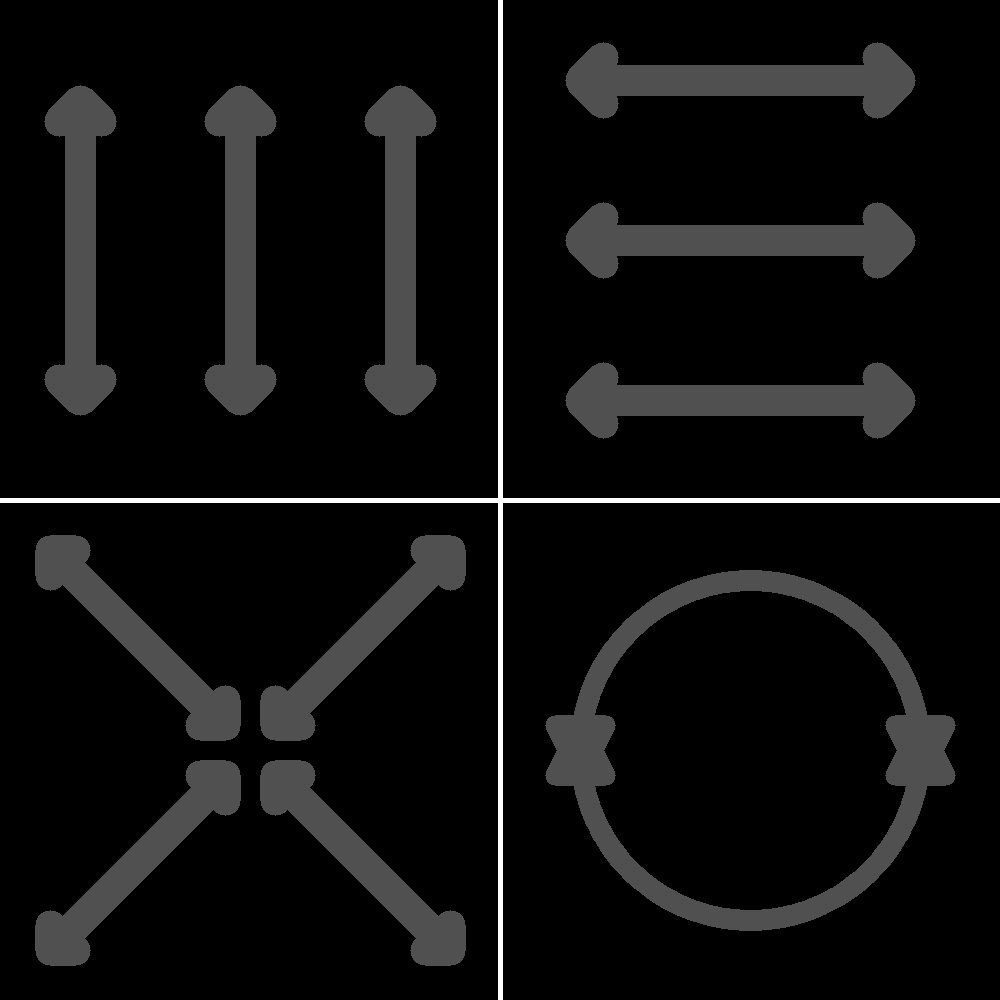
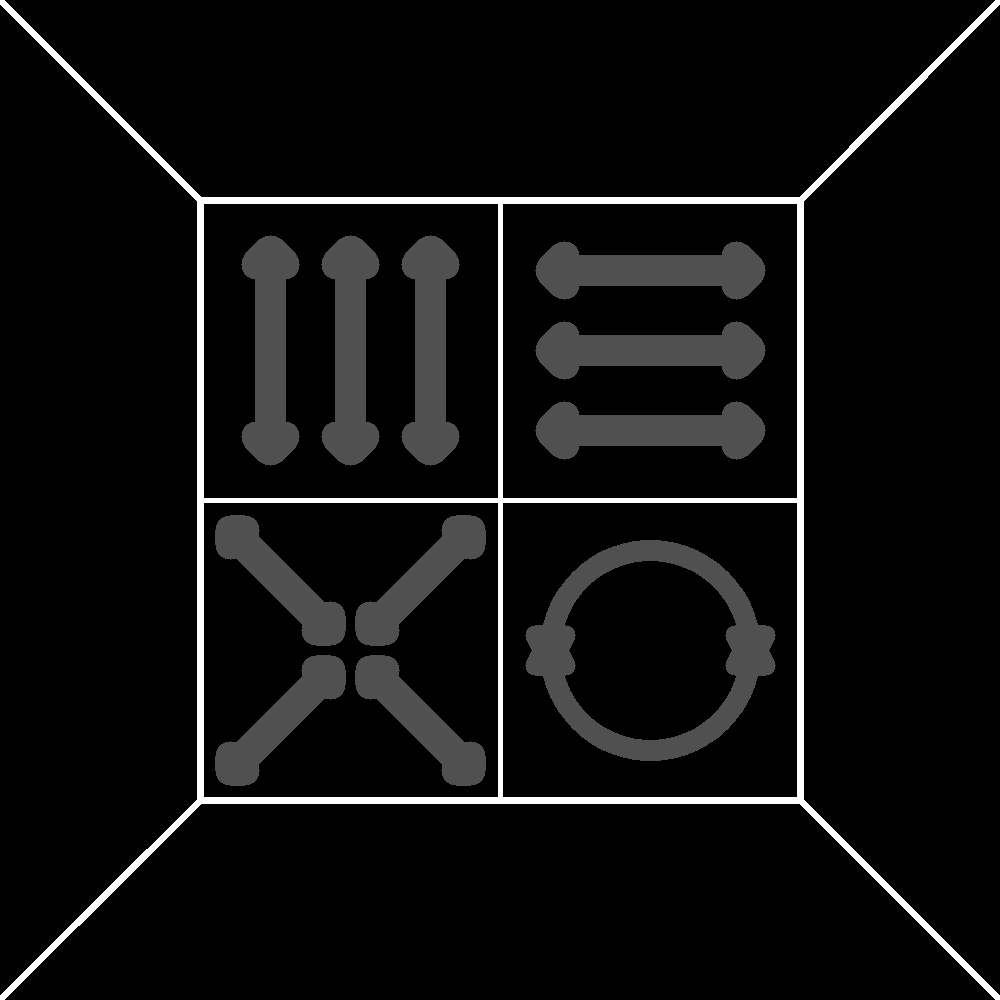
Integate the two GUIs into one.

diff --git a/eval/tools/generateGraphicalBase.py b/eval/tools/generateGraphicalBase.py
@@ -1,66 +1,53 @@
 import numpy as np
 import cv2
 
-front = np.array([[0, 0], [200, 200], [600, 200], [799, 0]])
-rear = np.array([[799, 799], [600, 600], [200, 600], [0, 799]])
-left = np.array([[0, 0], [200, 200], [200, 600], [0, 799]])
-right = np.array([[799, 0], [600, 200], [600, 600], [799, 799]])
-
-background = 255 * np.ones((800, 800, 3), dtype=np.uint8)
-drone = cv2.imread("../test/drone.jpg")
-roi = cv2.resize(drone, (480, 320))
-background[240:560, 160:640] = roi
-cv2.rectangle(background, (180, 200), (605, 600), (0, 0, 0), thickness=5)
-cv2.line(background, (0, 0), (180, 200), (0, 0, 0), thickness=5)
-cv2.line(background, (799, 0), (605, 200), (0, 0, 0), thickness=5)
-cv2.line(background, (0, 799), (180, 600), (0, 0, 0), thickness=5)
-cv2.line(background, (799, 799), (605, 600), (0, 0, 0), thickness=5)
-
-cv2.imshow("Obstacle", background)
-cv2.imwrite("ObstacleBackground.jpg", background)
-
 canvas = np.zeros((1000, 1000, 3), dtype=np.uint8)
-cv2.line(canvas, (500, 0), (500, 999), (255, 255, 255), thickness=3)
-cv2.line(canvas, (0, 500), (999, 500), (255, 255, 255), thickness=3)
+cv2.line(canvas, (500, 200), (500, 800), (255, 255, 255), thickness=3)
+cv2.line(canvas, (200, 500), (800, 500), (255, 255, 255), thickness=3)
+cv2.rectangle(canvas, (200, 200), (800, 800), (255, 255, 255), thickness=5)
+cv2.line(canvas, (0, 0), (200, 200), (255, 255, 255), thickness=5)
+cv2.line(canvas, (999, 0), (800, 200), (255, 255, 255), thickness=5)
+cv2.line(canvas, (0, 999), (200, 800), (255, 255, 255), thickness=5)
+cv2.line(canvas, (999, 999), (800, 800), (255, 255, 255), thickness=5)
 
 inactiveColor = (80, 80, 80)
 activeColor = (255, 255, 255)
 #UP
-cv2.arrowedLine(canvas, (80, 400), (80, 100), inactiveColor, thickness=30)
-cv2.arrowedLine(canvas, (240, 400), (240, 100), inactiveColor, thickness=30)
-cv2.arrowedLine(canvas, (400, 400), (400, 100), inactiveColor, thickness=30)
+cv2.arrowedLine(canvas, (270, 450), (270, 250), inactiveColor, thickness=30)
+cv2.arrowedLine(canvas, (350, 450), (350, 250), inactiveColor, thickness=30)
+cv2.arrowedLine(canvas, (430, 450), (430, 250), inactiveColor, thickness=30)
 #DOWN
-cv2.arrowedLine(canvas, (80, 100), (80, 400), inactiveColor, thickness=30)
-cv2.arrowedLine(canvas, (240, 100), (240, 400), inactiveColor, thickness=30)
-cv2.arrowedLine(canvas, (400, 100), (400, 400), inactiveColor, thickness=30)
+cv2.arrowedLine(canvas, (270, 250), (270, 450), inactiveColor, thickness=30)
+cv2.arrowedLine(canvas, (350, 250), (350, 450), inactiveColor, thickness=30)
+cv2.arrowedLine(canvas, (430, 250), (430, 450), inactiveColor, thickness=30)
 #LEFT
-cv2.arrowedLine(canvas, (580, 80), (900, 80), inactiveColor, thickness=30)
-cv2.arrowedLine(canvas, (580, 240), (900, 240), inactiveColor, thickness=30)
-cv2.arrowedLine(canvas, (580, 400), (900, 400), inactiveColor, thickness=30)
+cv2.arrowedLine(canvas, (550, 270), (750, 270), inactiveColor, thickness=30)
+cv2.arrowedLine(canvas, (550, 350), (750, 350), inactiveColor, thickness=30)
+cv2.arrowedLine(canvas, (550, 430), (750, 430), inactiveColor, thickness=30)
 #RIGHT
-cv2.arrowedLine(canvas, (900, 80), (580, 80), inactiveColor, thickness=30)
-cv2.arrowedLine(canvas, (900, 240), (580, 240), inactiveColor, thickness=30)
-cv2.arrowedLine(canvas, (900, 400), (580, 400), inactiveColor, thickness=30)
+cv2.arrowedLine(canvas, (750, 270), (550, 270), inactiveColor, thickness=30)
+cv2.arrowedLine(canvas, (750, 350), (550, 350), inactiveColor, thickness=30)
+cv2.arrowedLine(canvas, (750, 430), (550, 430), inactiveColor, thickness=30)
 #ZOOMIN
-cv2.arrowedLine(canvas, (225, 725), (50, 550), inactiveColor, thickness=30)
-cv2.arrowedLine(canvas, (225, 775), (50, 950), inactiveColor, thickness=30)
-cv2.arrowedLine(canvas, (275, 725), (450, 550), inactiveColor, thickness=30)
-cv2.arrowedLine(canvas, (275, 775), (450, 950), inactiveColor, thickness=30)
+cv2.arrowedLine(canvas, (330, 630), (230, 530), inactiveColor, thickness=30)
+cv2.arrowedLine(canvas, (330, 670), (230, 770), inactiveColor, thickness=30)
+cv2.arrowedLine(canvas, (370, 630), (470, 530), inactiveColor, thickness=30)
+cv2.arrowedLine(canvas, (370, 670), (470, 770), inactiveColor, thickness=30)
 #ZOOMOUT
-cv2.arrowedLine(canvas, (50, 550), (225, 725), inactiveColor, thickness=30)
-cv2.arrowedLine(canvas, (50, 950), (225, 775), inactiveColor, thickness=30)
-cv2.arrowedLine(canvas, (450, 550), (275, 725), inactiveColor, thickness=30)
-cv2.arrowedLine(canvas, (450, 950), (275, 775), inactiveColor, thickness=30)
+cv2.arrowedLine(canvas, (230, 530), (330, 630), inactiveColor, thickness=30)
+cv2.arrowedLine(canvas, (230, 770), (330, 670), inactiveColor, thickness=30)
+cv2.arrowedLine(canvas, (470, 530), (370, 630), inactiveColor, thickness=30)
+cv2.arrowedLine(canvas, (470, 770), (370, 670), inactiveColor, thickness=30)
 #CW
-cv2.drawMarker(canvas, (580, 750), inactiveColor, cv2.MARKER_TRIANGLE_UP, markerSize=50, thickness=20)
-cv2.drawMarker(canvas, (920, 750), inactiveColor, cv2.MARKER_TRIANGLE_DOWN, markerSize=50, thickness=20)
+cv2.drawMarker(canvas, (550, 650), inactiveColor, cv2.MARKER_TRIANGLE_UP, markerSize=30, thickness=20)
+cv2.drawMarker(canvas, (750, 650), inactiveColor, cv2.MARKER_TRIANGLE_DOWN, markerSize=30, thickness=20)
 #CCW
-cv2.drawMarker(canvas, (580, 750), inactiveColor, cv2.MARKER_TRIANGLE_DOWN, markerSize=50, thickness=20)
-cv2.drawMarker(canvas, (920, 750), inactiveColor, cv2.MARKER_TRIANGLE_UP, markerSize=50, thickness=20)
-cv2.circle(canvas, (750, 750), 170, inactiveColor, thickness=20)
+cv2.drawMarker(canvas, (550, 650), inactiveColor, cv2.MARKER_TRIANGLE_DOWN, markerSize=30, thickness=20)
+cv2.drawMarker(canvas, (750, 650), inactiveColor, cv2.MARKER_TRIANGLE_UP, markerSize=30, thickness=20)
+cv2.circle(canvas, (650, 650), 100, inactiveColor, thickness=20)
 
 cv2.imshow("Motion", canvas)
-cv2.waitKey(0)
+cv2.waitKey(2000)
 cv2.imwrite("MotionBackground.jpg", canvas)
 
 cv2.destroyAllWindows()

diff --git a/eval/Graphics.py b/eval/Graphics.py
@@ -5,24 +5,23 @@ class Graphics():
 
 
     def __init__(self):
-        upArrow = np.array([ ( (80, 400), (80, 100) ), ( (240, 400), (240, 100) ), ( (400, 400), (400, 100) ) ])
-        downArrow = np.array([ ( (80, 100), (80, 400) ), ( (240, 100), (240, 400) ), ( (400, 100), (400, 400) ) ])
-        leftArrow = np.array([ ( (580, 80), (900, 80) ), ( (580, 240), (900, 240) ), ( (580, 400), (900, 400) ) ])
-        rightArrow = np.array([ ( (900, 80), (580, 80) ), ( (900, 240), (580, 240) ), ( (900, 400), (580, 400) ) ])
-        zoominArrow = np.array([ ( (225, 725), (50, 550) ), ((225, 775), (50, 950)  ), ( (275, 725), (450, 550) ), ((275, 775), (450, 950)  ) ])
-        zoomoutArrow = np.array([ ((50, 550), (225, 725)  ), ( (50, 950), (225, 775) ), ( (450, 550), (275, 725) ), ((450, 950), (275, 775)  ) ])
+        self.counter = 0
+        upArrow = np.array([ ( (270, 450), (270, 250) ), ( (350, 450), (350, 250) ), ( (430, 450), (430, 250) ) ])
+        downArrow = np.array([ ( (270, 250), (270, 450) ), ( (350, 250), (350, 450) ), ( (430, 250), (430, 450) ) ])
+        leftArrow = np.array([ ( (550, 270), (750, 270) ), ( (550, 350), (750, 350) ), ( (550, 430), (750, 430) ) ])
+        rightArrow = np.array([ ( (750, 270), (550, 270) ), ( (750, 350), (550, 350) ), ( (750, 430), (550, 430) ) ])
+        zoominArrow = np.array([ ( (330, 630), (230, 530) ), ((330, 670), (230, 770)  ), ( (370, 630), (470, 530) ), ((370, 670), (470, 770)  ) ])
+        zoomoutArrow = np.array([ ((230, 530), (330, 630)  ), ( (230, 770), (330, 670) ), ( (470, 530), (370, 630) ), ((470, 770), (370, 670)  ) ])
         cwArrow = np.array( [  ] )
         ccwArrow = np.array( [  ] )
-        self.arrows = [cwArrow, ccwArrow, zoominArrow, zoomoutArrow, downArrow, upArrow, rightArrow, leftArrow]
-        frontSide = np.array([[0, 0], [200, 200], [600, 200], [799, 0]])
-        rearSide = np.array([[799, 799], [600, 600], [200, 600], [0, 799]])
-        leftSide = np.array([[0, 0], [200, 200], [200, 600], [0, 799]])
-        rightSide = np.array([[799, 0], [600, 200], [600, 600], [799, 799]])
-        self.sides = [frontSide, rearSide, leftSide, rightSide]
+        frontSide = np.array([[0, 0], [200, 200], [800, 200], [999, 0]])
+        rearSide = np.array([[999, 999], [800, 800], [200, 800], [0, 999]])
+        leftSide = np.array([[0, 0], [200, 200], [200, 800], [0, 999]])
+        rightSide = np.array([[999, 0], [600, 200], [800, 800], [999, 999]])
+        self.arrows = [cwArrow, ccwArrow, zoominArrow, zoomoutArrow, downArrow, upArrow, rightArrow, leftArrow, frontSide, rearSide, leftSide, rightSide]
         self.inactiveColor = (80, 80, 80)
         self.activeColor = (255, 255, 255)
         self.obstacleColor = (20, 200, 250)
-        self.background = cv2.imread("ObstacleBackground.jpg")
         self.canvas = cv2.imread("MotionBackground.jpg")
 
     def drawArrows(self, image, positions, color):
@@ -30,34 +29,28 @@ class Graphics():
             cv2.arrowedLine(image, tuple(positions[index][0]), tuple(positions[index][1]), color, thickness=30)
         return image
 
-    def showObstacle(self, threshold, config):
-        obstacle = self.background.copy()
-        for index, activity in enumerate(config, start=0):
-            if activity > threshold:
-                cv2.fillConvexPoly(obstacle, self.sides[index], self.obstacleColor)
-        cv2.imshow("Obstacle", obstacle)
-
-    def showMotion(self, threshold, config):
+    # front, rear, left, right
+    def displayConfig(self, thresholds, config):
         motion = self.canvas.copy()
         for index in range(8):
-            if config[index] > threshold:
+            if config[index] > thresholds[0]:
                 motion = self.drawArrows(motion, self.arrows[index], self.activeColor)
 
-        if config[6] > threshold:
+        if config[6] > thresholds[0]:
             cv2.drawMarker(motion, (580, 750), self.activeColor, cv2.MARKER_TRIANGLE_UP, markerSize=50, thickness=20)
             cv2.drawMarker(motion, (920, 750), self.activeColor, cv2.MARKER_TRIANGLE_DOWN, markerSize=50, thickness=20)
 
-        if config[7] > threshold:
+        if config[7] > thresholds[0]:
             cv2.drawMarker(motion, (580, 750), self.activeColor, cv2.MARKER_TRIANGLE_DOWN, markerSize=50, thickness=20)
             cv2.drawMarker(motion, (920, 750), self.activeColor, cv2.MARKER_TRIANGLE_UP, markerSize=50, thickness=20)
 
-        if config[6] > threshold or config[7] > threshold:
+        if config[6] > thresholds[0] or config[7] > thresholds[0]:
             cv2.circle(motion, (750, 750), 170, self.activeColor, thickness=20)
+        cv2.putText(motion, "Frame: {}".format(self.counter), (500, 500), cv2.FONT_HERSHEY_SIMPLEX, 1, (0, 255, 0))
+        self.counter += 1
+        for index in range(8, 12):
+            if config[index] > thresholds[1]:
+                cv2.fillConvexPoly(motion, self.arrows[index], self.obstacleColor)
 
         cv2.imshow("Motion", motion)
-
-    # front, rear, left, right
-    def displayConfig(self, thresholds, config):
-        self.showMotion(thresholds[0], config[0:8])
-        self.showObstacle(thresholds[1], config[8:12])
         cv2.waitKey(10)
